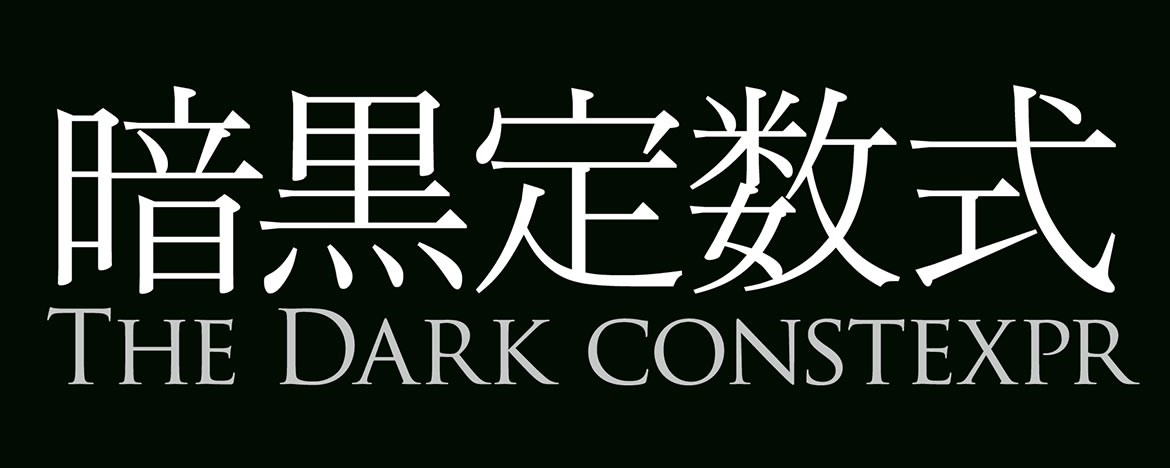
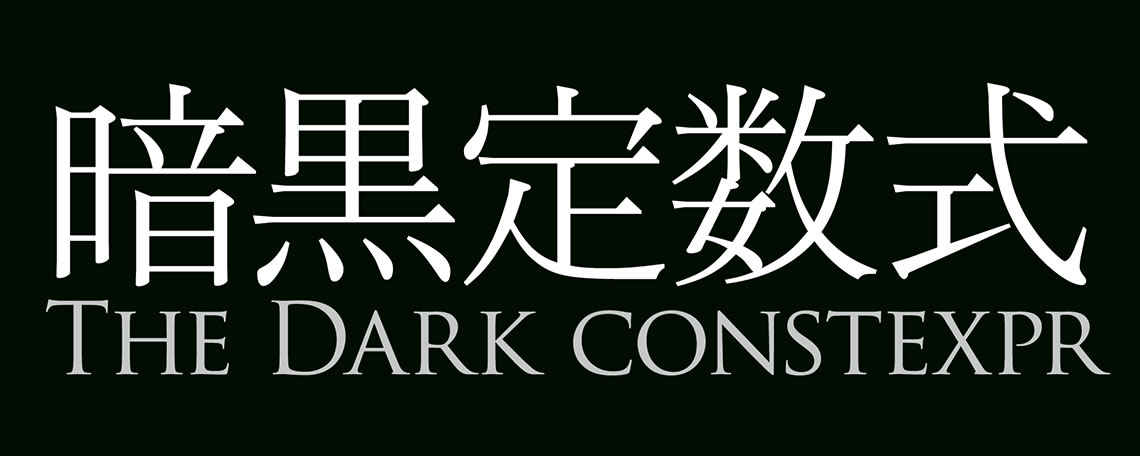
fix size

diff --git a/index.html b/index.html
@@ -57,7 +57,7 @@
 
 	<div class="container" role="main">
 	<div class="">
-		<img name="dark-constexpr" src="./assets/images/dark-constexpr.jpg" width="1170" height="468" alt="dark-constexpr" />
+		<img name="dark-constexpr" src="./assets/images/dark-constexpr.jpg" width="1140" height="456" alt="dark-constexpr" />
 		<div class="row">
 			<span class="dark-constexpr-text">
 				<p>Under construction...</p>
